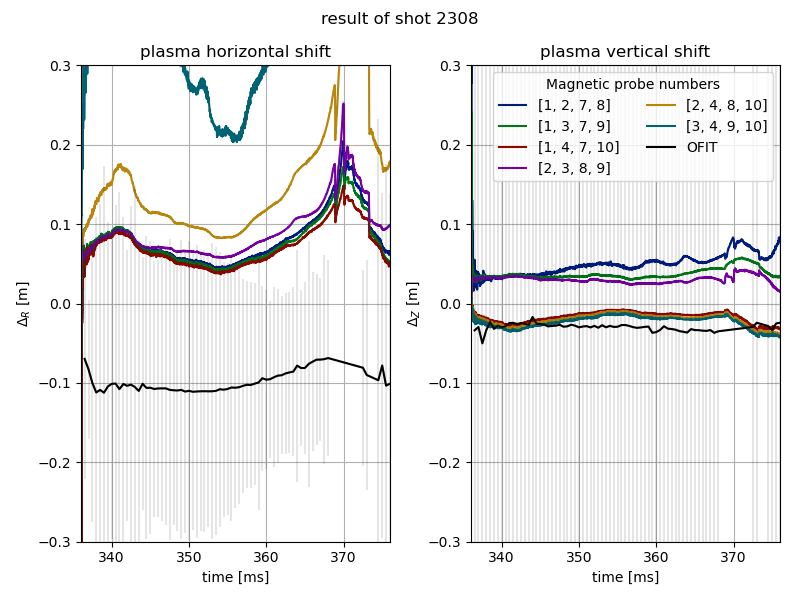
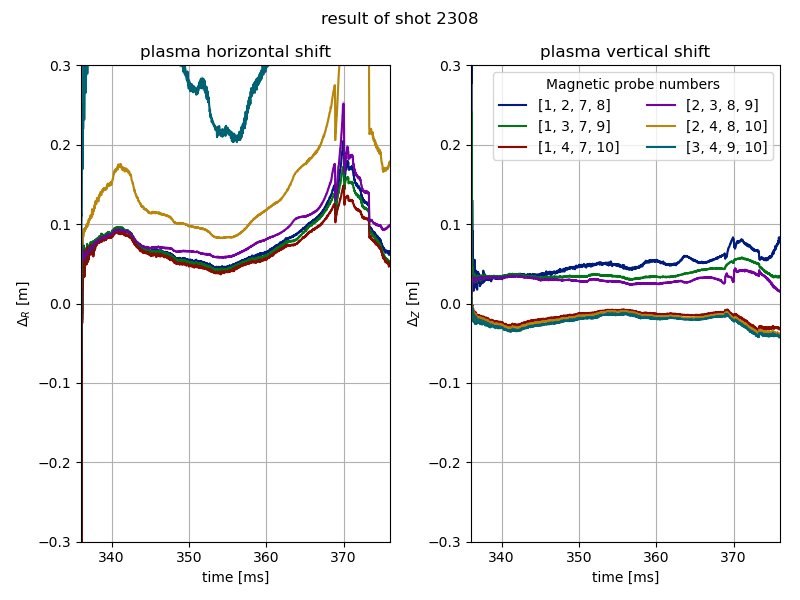
add result of calibration plane transformation

diff --git a/experimental_result.py b/experimental_result.py
@@ -4,6 +4,7 @@ from matplotlib import pyplot as plt
 from tqdm import tqdm
 import pandas as pd
 import os
+import cv2
 
 #toroidal filament functions
 from methods_toroidal_filament.process_probe_data import retreive_plasma_current, retreive_magnetic_signal,trim_quantities
@@ -11,21 +12,24 @@ from methods_toroidal_filament.plasma_shift import toroidal_filament_shift_progr
 from methods_toroidal_filament.parameters import all_arrays
 
 #OFIT
-from methods_OFIT.OFIT import OFIT
+from methods_OFIT.OFIT import OFIT, process_image, field_edge_detection
+from methods_OFIT.transformation import RANSAC_circle
 from methods_OFIT.local_image import rev_image, get_frames_for_shot
 from methods_OFIT.parameters import TT1_major_radius
-
 
 plt.style.use("seaborn-v0_8-dark-palette")
 
 #defined experimental shot numbers to be used
-shot_lst = [2308]
+shot_lst = [926]
 
 #extended time from discharge begin. (For full discharge duration use np.inf)
 time_extension = 40 #ms
 
 #function to convert frame number to time with given formula
 frame_to_time = lambda frame: frame/2 + 260
+
+#function to transform pixel to calibration plane
+pixel_to_calibration = lambda q, edge_pixel, pixel_plane_ratio=1/0.9: (q - edge_pixel)*pixel_plane_ratio/1000
 
 for shot_no in shot_lst:
     #calculate noise removed signal, time steps, discharge begin time, discharge end time from experimental data
@@ -54,35 +58,65 @@ for shot_no in shot_lst:
     all_frames = get_frames_for_shot(shot_no) #find all frames number of given experimental shot
     all_frames_images = [rev_image(shot_no,frame) for frame in all_frames] #retreive all RGB images of given shot
 
-    all_rows = []
-    for frame_no, img in tqdm(enumerate(all_frames_images, start=1), total=len(all_frames_images), desc="OFIT"):
-        #determine time
-        OFIT_time = frame_to_time(frame_no)
+    # all_rows = []
+    # for frame_no, img in tqdm(enumerate(all_frames_images, start=1), total=len(all_frames_images), desc="OFIT"):
+    #     #determine time
+    #     OFIT_time = frame_to_time(frame_no)
 
-        if OFIT_time < discharge_begin:continue
-        if OFIT_time > end_time: break
+        # if OFIT_time < discharge_begin:continue
+        # if OFIT_time > end_time: break
 
-        #calculate shift with OFIT
-        (R0,Z0,r), cov = OFIT(img,shot_no,frame_no)
+    #     #calculate shift with OFIT
+    #     (R0,Z0,r), cov = OFIT(img,shot_no,frame_no)
 
-        if None in (R0,Z0,r) or cov is None:
+    #     if None in (R0,Z0,r) or cov is None:
+    #         continue
+
+    #     R0_err, Z0_err, r_err = cov.diagonal()
+
+    #     new_row = [OFIT_time, R0-TT1_major_radius, Z0, r, R0_err,Z0_err,r_err]
+    #     all_rows.append(new_row)
+    
+    # OFIT_result = pd.DataFrame(
+    #     all_rows,
+    #     columns=["OFIT_time", "OFIT_R", "OFIT_Z", "OFIT_r", "OFIT_R_err", "OFIT_Z_err", "OFIT_r_err"]
+    # )
+
+    # OFIT_time = OFIT_result["OFIT_time"]
+    # OFIT_Rshift, OFIT_Rerr = OFIT_result["OFIT_R"], OFIT_result["OFIT_R_err"]
+    # OFIT_Zshift, OFIT_Zerr=  OFIT_result["OFIT_Z"], OFIT_result["OFIT_Z_err"]
+    # OFIT_r, OFIT_rerr =  OFIT_result["OFIT_r"], OFIT_result["OFIT_r_err"]
+
+    ### calibration plane ###
+
+    calibration_plane_rows = []
+    for frame_no, img in tqdm(enumerate(all_frames_images,start = 1),total=len(all_frames_images), desc="OFIT"):    
+        calibration_plane_time = frame_to_time(frame_no)
+        if calibration_plane_time < discharge_begin:continue
+        if calibration_plane_time > end_time: break
+
+        img_brightness = np.mean(cv2.cvtColor(img,cv2.COLOR_RGB2GRAY))
+        if img_brightness < 70 or img_brightness > 130: 
             continue
 
-        R0_err, Z0_err, r_err = cov.diagonal()
+        processed_image = process_image(img)
 
-        new_row = [OFIT_time, R0-TT1_major_radius, Z0, r, R0_err,Z0_err,r_err]
-        all_rows.append(new_row)
-    
-    OFIT_result = pd.DataFrame(
-        all_rows,
-        columns=["OFIT_time", "OFIT_R", "OFIT_Z", "OFIT_r", "OFIT_R_err", "OFIT_Z_err", "OFIT_r_err"]
+        (x_high,y_high), (x_low,y_low) = field_edge_detection(processed_image)
+        y_high, y_low = y_high - 1080//2, y_low - 1080//2
+
+        u_high, v_high = pixel_to_calibration(x_high,500), pixel_to_calibration(y_high,0)
+        u_low, v_low = pixel_to_calibration(x_low,500), pixel_to_calibration(y_low,0)
+
+        u_com, v_com = np.append(u_high,u_low), np.append(v_high,v_low)
+
+        (x0,y0,radius),*_ = RANSAC_circle(np.append(u_high,u_low), np.append(v_high,v_low))
+
+        calibration_plane_rows.append([calibration_plane_time,x0 - TT1_major_radius,y0,radius])
+
+    calibration_plane_df = pd.DataFrame(
+        calibration_plane_rows,
+        columns=["time","x0","y0","r"]
     )
-
-    OFIT_time = OFIT_result["OFIT_time"]
-    OFIT_Rshift, OFIT_Rerr = OFIT_result["OFIT_R"], OFIT_result["OFIT_R_err"]
-    OFIT_Zshift, OFIT_Zerr=  OFIT_result["OFIT_Z"], OFIT_result["OFIT_Z_err"]
-    OFIT_r, OFIT_rerr =  OFIT_result["OFIT_r"], OFIT_result["OFIT_r_err"]
-
     #plotting 
 
     fig, (axR, axZ) = plt.subplots(1,2,figsize = (8,6))
@@ -96,11 +130,13 @@ for shot_no in shot_lst:
     toroidal_filament_plot(axR,toroidal_R0_arr,toroidal_R0_err)
     toroidal_filament_plot(axZ,toroidal_Z0_arr,toroidal_Z0_err)
 
-    axR.plot(OFIT_time, OFIT_Rshift, color="black", label="OFIT")
-    axR.errorbar(OFIT_time, OFIT_Rshift, yerr=OFIT_Rerr, alpha=0.1, color="black")
+    # axR.plot(OFIT_time, OFIT_Rshift, color="black", label="OFIT")
+    # axR.errorbar(OFIT_time, OFIT_Rshift, yerr=OFIT_Rerr, alpha=0.1, color="black")
+    axR.plot(calibration_plane_df["time"], calibration_plane_df["x0"],".--")
 
-    axZ.plot(OFIT_time, OFIT_Zshift, color="black", label="OFIT")
-    axZ.errorbar(OFIT_time, OFIT_Zshift, yerr=OFIT_Zerr, alpha=0.1, color="black")
+    # axZ.plot(OFIT_time, OFIT_Zshift, color="black", label="OFIT")
+    # axZ.errorbar(OFIT_time, OFIT_Zshift, yerr=OFIT_Zerr, alpha=0.1, color="black")
+    axZ.plot(calibration_plane_df["time"], calibration_plane_df["y0"],".--", label = "calibration")
 
     axR.set_ylabel(r"$\Delta_R$ [m]")
     axR.set_title("plasma horizontal shift")
@@ -118,41 +154,7 @@ for shot_no in shot_lst:
 
     fig.suptitle(f"result of shot {shot_no}")
 
-    save_path = os.path.join("result_plot", str(shot_no))
-    plt.tight_layout()
-    plt.savefig(save_path)
-    plt.clf()
-
-    fig, (axR, axZ) = plt.subplots(1,2,figsize = (8,6))
-
-    def derivative_toroidal_filament_plot(ax,arr,arr_err):
-        for t, shift, err, probe_arr in zip(valid_time, arr, arr_err,use_probes):
-            line = ax.plot(t,np.gradient(shift),label = f"{probe_arr}",alpha = 0.5)
-
-    derivative_toroidal_filament_plot(axR,toroidal_R0_arr,toroidal_R0_err)
-    derivative_toroidal_filament_plot(axZ,toroidal_Z0_arr,toroidal_Z0_err)
-
-    axR.plot(OFIT_time, np.gradient(OFIT_Rshift), color="black", label="OFIT")
-
-    axZ.plot(OFIT_time, np.gradient(OFIT_Zshift), color="black", label="OFIT")
-
-    axR.set_ylabel(r"$\frac{d\Delta_R}{dt}$ [m/s]")
-    axR.set_title("plasma horizontal shift")
-
-    axZ.set_ylabel(r"$\frac{d\Delta_Z}{dt}$ [m/s]")
-    axZ.set_title("plasma vertical shift")
-
-    axZ.legend(ncol=2, title = "Magnetic probe numbers")
-
-    for ax in (axR,axZ):
-        ax.set_xlim(discharge_begin, end_time)
-        ax.set_ylim(-0.1,0.1)
-        ax.grid()
-        ax.set_xlabel("time [ms]")
-
-    fig.suptitle(f"result of shot {shot_no}")
-
-    save_path = os.path.join("result_plot", str(shot_no) + "Derivative")
+    save_path = os.path.join("calibration_plane_result", str(shot_no))
     plt.tight_layout()
     plt.savefig(save_path)
     plt.clf()

diff --git a/methods_OFIT/calibration_plane.py b/methods_OFIT/calibration_plane.py
@@ -1,0 +1,4 @@
+"""
+Calculate plasma column position from TT-1 calibration plane
+"""
+
